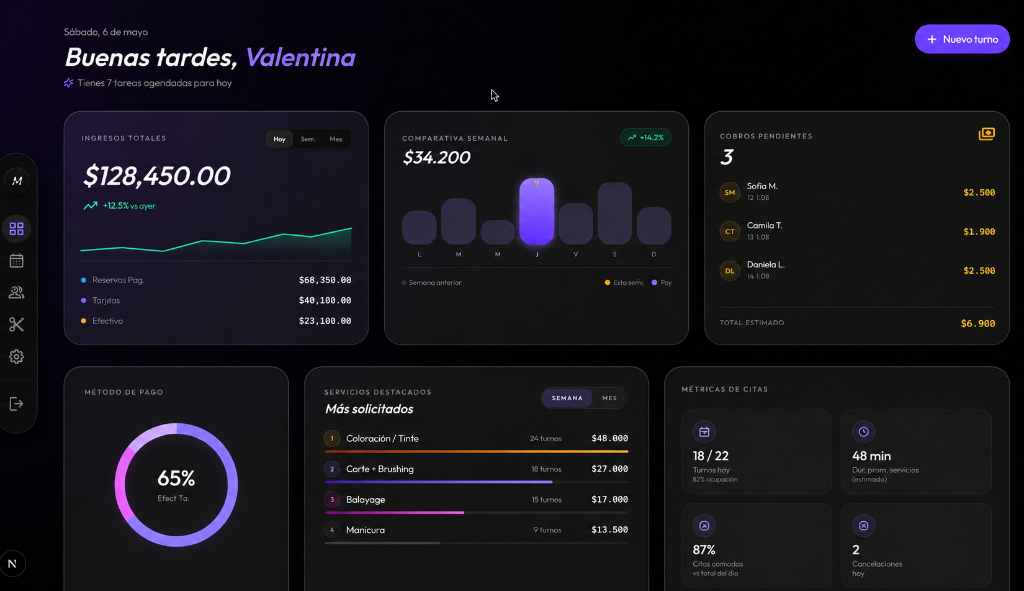
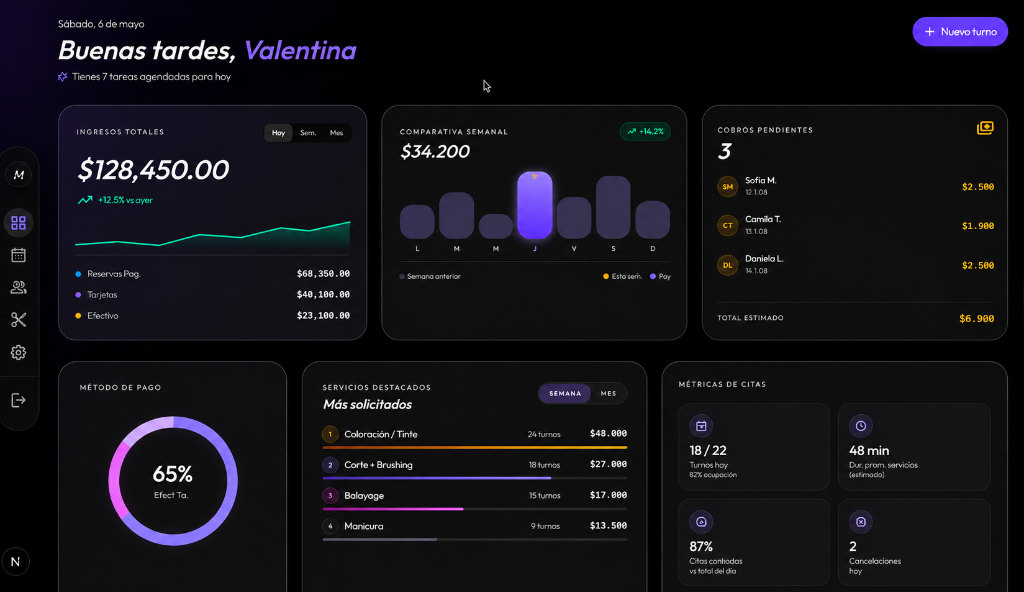
feat(landing): update dashboard preview image and add cache-buster parameter

diff --git a/src/components/business/BusinessDashboardMock.tsx b/src/components/business/BusinessDashboardMock.tsx
@@ -31,7 +31,7 @@ export default function BusinessDashboardMock() {
       >
         <div className="w-full h-full rounded-2xl overflow-hidden bg-[#0d0d0d]">
           <img 
-            src="/landing/dashboard-preview.png" 
+            src="/landing/dashboard-preview.png?v=2" 
             alt="Dashboard Profesional" 
             className="w-full h-full object-cover object-top opacity-90 transition-opacity duration-500 hover:opacity-100"
           />
